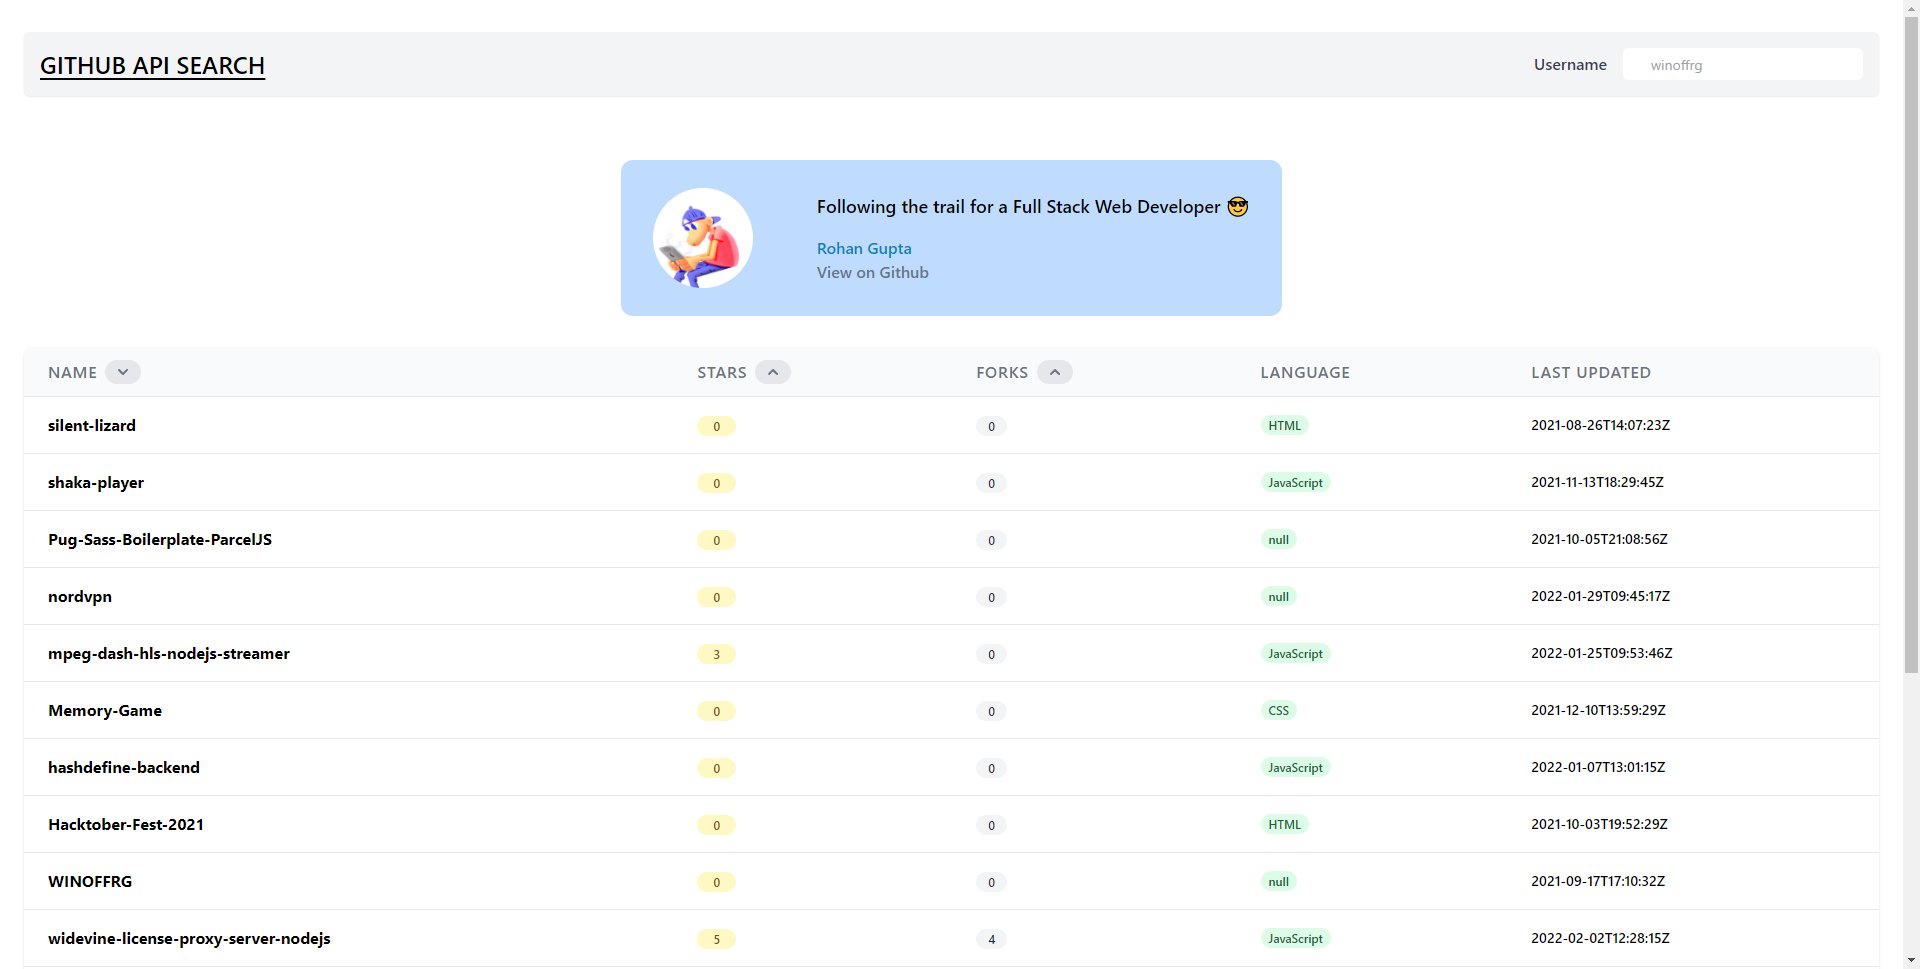
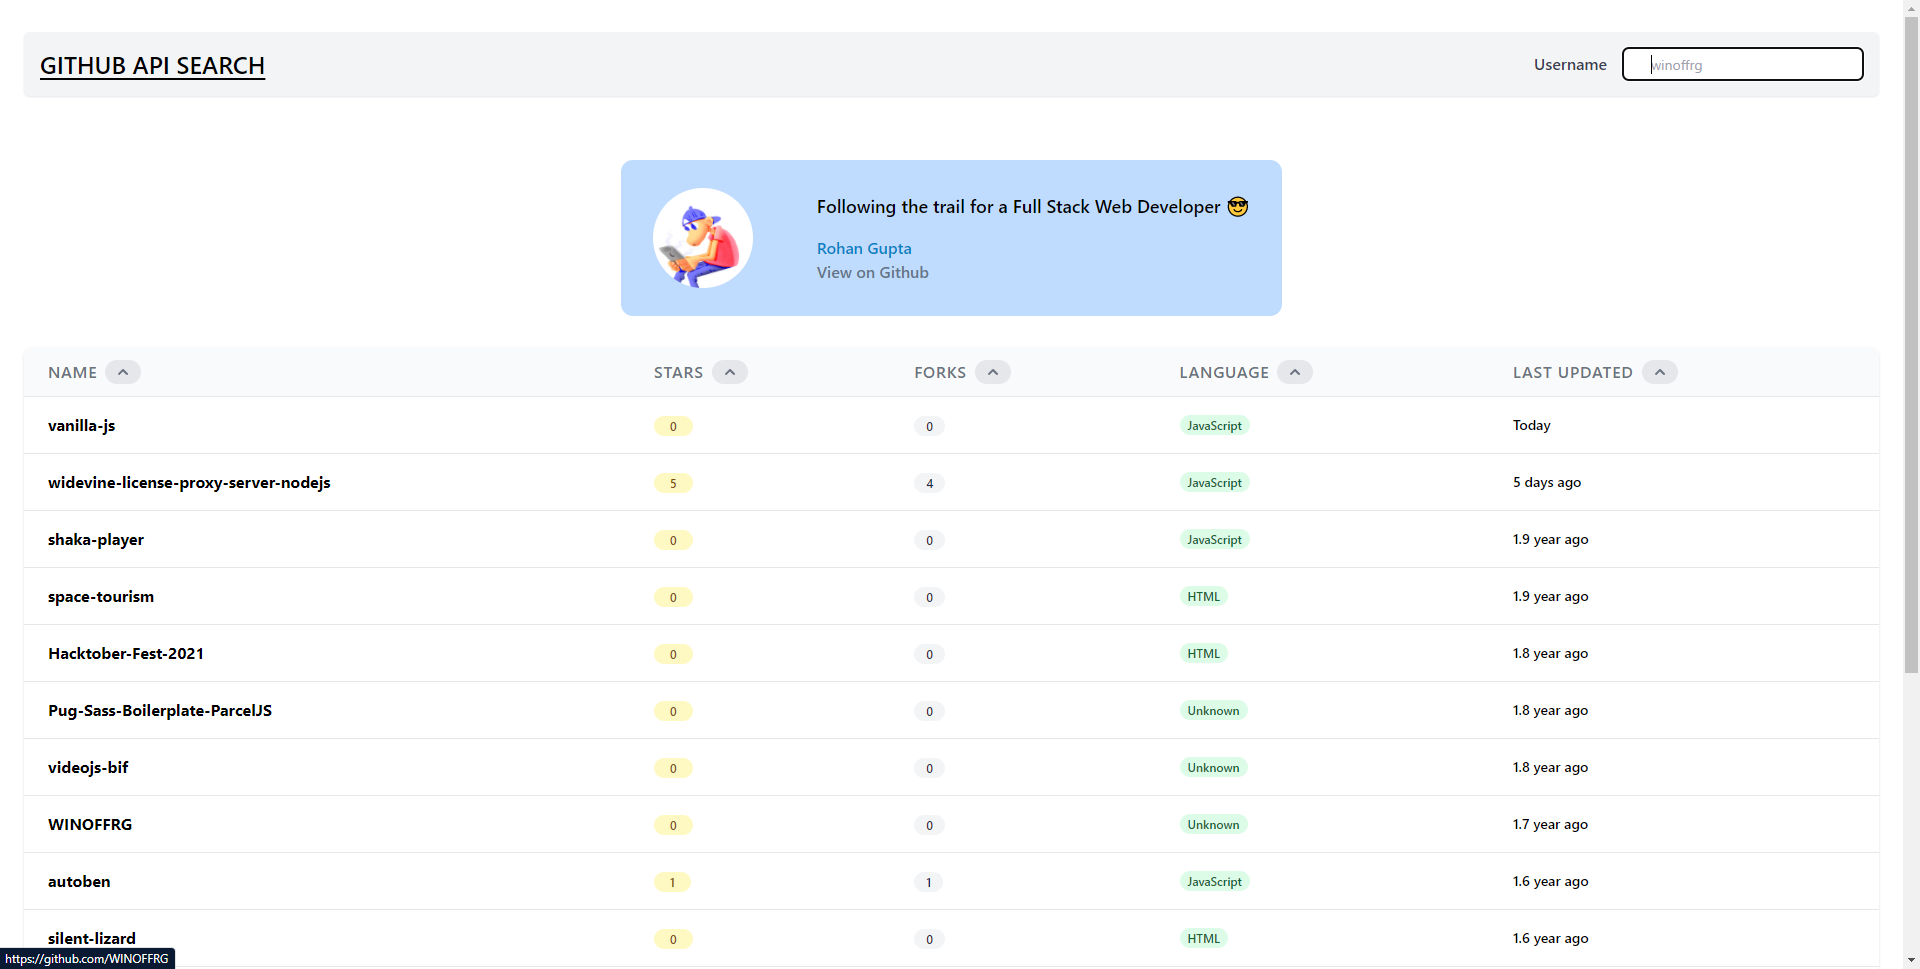
Clean Code, No redudancy

diff --git a/applications/Github Search/scripts/controller.js b/applications/Github Search/scripts/controller.js
@@ -2,96 +2,113 @@ const logic = {
 
     sorting: {
         sortBy(handler, arr, order) {
-
-            if(handler === 'byName') {
-                console.log('Sorting by Name');
-
-                let unsortedMap = new Map();
-
-                for(let idx = 0; idx < arr.length; idx++) {
-                    unsortedMap.set(idx, arr[idx]['name']);
-                }
-
-                let sortedData = null;
-
-                if(order === 'asc') {
-                    return arr;
-                }
-                else {
-                    sortedData = Array.from(unsortedMap.entries()).sort(function (a, b) {
-                        if (a > b) {
-                            return -1;
-                        }
-                        if (b > a) {
-                            return 1;
-                        }
-                        return 0;
-                    });;
-                }
-
-                console.log(sortedData);
-                let newRepoData = [];
-                
-                sortedData.forEach( (repoIdxValue) => {
-                    newRepoData.push(arr[repoIdxValue[0]])
-                });
-                
-                return newRepoData;
+            
+            console.log(`Sorting ${handler} in ${order} order`);
+            
+            const jsonIdxMap = {
+                'byName': 'name',
+                'byStars': 'stargazers_count',
+                'byForks': 'forks_count',
+                'byLanguage': 'language',
+                'byLastUpdated': 'updated_at'
             }
-            else if(handler === 'byStars') {
-                console.log(`Sorting ${handler} in ${order} order`);
 
-                let unsortedMap = new Map();
+            let unsortedMap = new Map();
 
-                for(let idx = 0; idx < arr.length; idx++) {
-                    unsortedMap.set(idx, arr[idx]['stargazers_count']);
-                }
-
-                let sortedData = null;
-
-                if(order === 'asc') {
-                    sortedData = Array.from(unsortedMap.entries()).sort((a, b) => a[1] - b[1]);
-                }
-                else {
-                    sortedData = Array.from(unsortedMap.entries()).sort((a, b) => b[1] - a[1]);
-                }
-
-                let newRepoData = [];
-                
-                sortedData.forEach( (repoIdxValue) => {
-                    newRepoData.push(arr[repoIdxValue[0]])
-                });
-                
-                return newRepoData;
+            for(let idx = 0; idx < arr.length; idx++) {
+                unsortedMap.set(idx, arr[idx][jsonIdxMap[handler]]);
             }
-            else if(handler === 'byForks') {
-                console.log(`Sorting ${handler} in ${order} order`);
 
-                let unsortedMap = new Map();
+            let sortedData = null;
 
-                for(let idx = 0; idx < arr.length; idx++) {
-                    unsortedMap.set(idx, arr[idx]['forks_count']);
+                if(handler === 'byName' || handler === 'byLanguage' || handler === 'byLastUpdated') {
+
+                    if(order === 'asc') {
+                        return arr;
+                    }
+                    else {
+                        sortedData = Array.from(unsortedMap.entries()).sort(function (a, b) {
+                            let stringA = a[1].toLowerCase(), stringB = b[1].toLowerCase();
+                            if (stringA < stringB)
+                                return 1;
+                            if (stringA > stringB)
+                                return -1;
+                            return 0;
+                        });
+                    }
                 }
+                else if(handler === 'byStars' || handler === 'byForks') {
 
-                let sortedData = null;
-
-                if(order === 'asc') {
-                    sortedData = Array.from(unsortedMap.entries()).sort((a, b) => a[1] - b[1]);
+                    if(order === 'asc') {
+                        sortedData = Array.from(unsortedMap.entries()).sort((a, b) => a[1] - b[1]);
+                    }
+                    else {
+                        sortedData = Array.from(unsortedMap.entries()).sort((a, b) => b[1] - a[1]);
+                    }
                 }
-                else {
-                    sortedData = Array.from(unsortedMap.entries()).sort((a, b) => b[1] - a[1]);
-                }
+            
+            let newRepoData = [];
+            
+            sortedData.forEach( (repoIdxValue) => {
+                newRepoData.push(arr[repoIdxValue[0]])
+            });
 
-                let newRepoData = [];
-                
-                sortedData.forEach( (repoIdxValue) => {
-                    newRepoData.push(arr[repoIdxValue[0]])
-                });
-                
-                return newRepoData;
-            }
+            return newRepoData;
         }
-    }
+    },
+
+    parsing: {
+        
+        parseData(data) {
+            
+            const currentDate = new Date();
+
+            data.forEach( (repo) => {
+                if(repo['language'] === null) {
+                    repo['language'] = 'Unknown';
+                }
+            });
+            
+            data.forEach( (repo) => {   
+                let lastUpdated = new Date(repo['updated_at']);
+                // console.log(`${lastUpdated.getDate()} - ${lastUpdated.getMonth()} - ${lastUpdated.getFullYear()}`); 
+
+                let yearGap = Math.abs(currentDate.getFullYear() - lastUpdated.getFullYear());
+                let monthGap = Math.abs(currentDate.getMonth() - lastUpdated.getMonth());
+                let dayGap = Math.abs(currentDate.getDate() - lastUpdated.getDate());
+
+                if(yearGap > 0) {
+                    if(yearGap === 1) {
+                        repo['updated_at'] = `${yearGap}.${monthGap} year ago`;
+                    }
+                    else {
+                        repo['updated_at'] = `${yearGap}.${monthGap} year's ago`;
+                    }
+                }
+                else if(monthGap > 0) {
+                    if(monthGap === 1) {
+                        repo['updated_at'] = `${monthGap}.${dayGap} ago`;
+                    }
+                    else {
+                        repo['updated_at'] = `${monthGap} month's ago`;
+                    }
+                }
+                else if(dayGap > 0) {
+                    if(dayGap === 1) {
+                        repo['updated_at'] = `${dayGap} day ago`;
+                    }
+                    else {
+                        repo['updated_at'] = `${dayGap} days ago`;
+                    }
+                }
+                else {
+                    repo['updated_at'] = 'Today';
+                }
+            });
+            
+            return data;
+        }
+    } 
 }
 
 export default logic;

diff --git a/applications/Github Search/scripts/script.js b/applications/Github Search/scripts/script.js
@@ -21,8 +21,14 @@ const application = {
                 asc: null,
                 desc: null
             },
-            byLanguage: null,
-            byLastUpdated: null,
+            byLanguage: {
+                asc: null,
+                desc: null
+            },
+            byLastUpdated: {
+                asc: null,
+                desc: null
+            },
         },
         filterBy: {
             languages: [],
@@ -49,6 +55,7 @@ const application = {
 
             this.stateData.apiData.userdata = await githubApi.fetchUserData(searchTerm);
             this.stateData.apiData.metaData = await githubApi.fetchMetaData(searchTerm);
+            this.stateData.apiData.metaData = await applicationLogic.parsing.parseData(this.stateData.apiData.metaData);
             
             this.render.isLoading(false);
 
@@ -127,59 +134,37 @@ const application = {
 
     setControls() {
         
-        const buttons = ['sort-btn__name', 'sort-btn__stars', 'sort-btn__forks'];
-        const buttonReference = buttons.map(button => document.querySelector(`.${button}`));
-        
-        buttonReference[0].addEventListener('click', () => {
-            let order = null;
+        const buttons = {
+            'sort-btn__name': 'byName',
+            'sort-btn__stars': 'byStars',
+            'sort-btn__forks': 'byForks',
+            'sort-btn__language': 'byLanguage',
+            'sort-btn__lastUpdated': 'byLastUpdated',
+        }
 
-            if(buttonReference[0].classList.contains('asc')) {
-                order = 'asc';
-                buttonReference[0].classList.remove('asc');
-                buttonReference[0].classList.add('desc');
-            }
-            else {
-                order = 'desc';
-                buttonReference[0].classList.remove('desc');
-                buttonReference[0].classList.add('asc');
-            }
+        Object.entries(buttons).forEach(([key, value]) => {
 
-            this.menuLogic.sortBy('byName', order);
+            const buttonReference = document.querySelector(`.${key}`);
+
+            buttonReference.addEventListener('click', async (event) => {
+
+                let order = null;
+
+                if(buttonReference.classList.contains('asc')) {
+                    order = 'asc';
+                    buttonReference.classList.remove('asc');
+                    buttonReference.classList.add('desc');
+                }
+                else {
+                    order = 'desc';
+                    buttonReference.classList.remove('desc');
+                    buttonReference.classList.add('asc');
+                }
+    
+                this.menuLogic.sortBy(value, order);
+            });
         });
 
-        buttonReference[1].addEventListener('click', () => {
-            let order = null;
-
-            if(buttonReference[1].classList.contains('asc')) {
-                order = 'asc';
-                buttonReference[1].classList.remove('asc');
-                buttonReference[1].classList.add('desc');
-            }
-            else {
-                order = 'desc';
-                buttonReference[1].classList.remove('desc');
-                buttonReference[1].classList.add('asc');
-            }
-
-            this.menuLogic.sortBy('byStars', order);
-        });
-        
-        buttonReference[2].addEventListener('click', () => {
-            let order = null;
-
-            if(buttonReference[2].classList.contains('asc')) {
-                order = 'asc';
-                buttonReference[2].classList.remove('asc');
-                buttonReference[2].classList.add('desc');
-            }
-            else {
-                order = 'desc';
-                buttonReference[2].classList.remove('desc');
-                buttonReference[2].classList.add('asc');
-            }
-
-            this.menuLogic.sortBy('byForks', order);
-        });
     },
 
     menuLogic: {
@@ -201,7 +186,6 @@ const application = {
         },
         
         sortBy(handler, order) {
-            // Check Caching
 
             let renderData = null;
 

diff --git a/applications/Github Search/index.html b/applications/Github Search/index.html
@@ -81,8 +81,32 @@
                                 </button>
                             </div>
                         </th>
-                        <th scope="col" class="px-6 py-3 text-left text-x font-medium text-gray-500 uppercase tracking-wider">Language</th>
-                        <th scope="col" class="px-6 py-3 text-left text-x font-medium text-gray-500 uppercase tracking-wider">Last Updated</th>
+                        <th scope="col" class="px-6 py-3 text-left text-x font-medium text-gray-500 uppercase tracking-wider">
+                            <div class="flex">
+                                <h2>Language</h2>
+                                <button class="asc sort-btn__language bg-gray-200 ml-2 rounded-full px-2">
+                                    <svg class="byLanguage-btn arrow-up" xmlns="http://www.w3.org/2000/svg" class="h-5 w-5" viewBox="0 0 20 20" fill="currentColor">
+                                        <path fill-rule="evenodd" d="M14.707 12.707a1 1 0 01-1.414 0L10 9.414l-3.293 3.293a1 1 0 01-1.414-1.414l4-4a1 1 0 011.414 0l4 4a1 1 0 010 1.414z" clip-rule="evenodd" />
+                                    </svg>
+                                    <svg class="byLanguage-btn arrow-down hidden" xmlns="http://www.w3.org/2000/svg" className="h-5 w-5" viewBox="0 0 20 20" fill="currentColor">
+                                        <path fillRule="evenodd" d="M5.293 7.293a1 1 0 011.414 0L10 10.586l3.293-3.293a1 1 0 111.414 1.414l-4 4a1 1 0 01-1.414 0l-4-4a1 1 0 010-1.414z" clipRule="evenodd" />
+                                    </svg>
+                                </button>
+                            </div>
+                        </th>
+                        <th scope="col" class="px-6 py-3 text-left text-x font-medium text-gray-500 uppercase tracking-wider">
+                            <div class="flex">
+                                <h2>Last Updated</h2>
+                                <button class="asc sort-btn__lastUpdated bg-gray-200 ml-2 rounded-full px-2">
+                                    <svg class="byLastUpdated-btn arrow-up" xmlns="http://www.w3.org/2000/svg" class="h-5 w-5" viewBox="0 0 20 20" fill="currentColor">
+                                        <path fill-rule="evenodd" d="M14.707 12.707a1 1 0 01-1.414 0L10 9.414l-3.293 3.293a1 1 0 01-1.414-1.414l4-4a1 1 0 011.414 0l4 4a1 1 0 010 1.414z" clip-rule="evenodd" />
+                                    </svg>
+                                    <svg class="byLastUpdated-btn arrow-down hidden" xmlns="http://www.w3.org/2000/svg" className="h-5 w-5" viewBox="0 0 20 20" fill="currentColor">
+                                        <path fillRule="evenodd" d="M5.293 7.293a1 1 0 011.414 0L10 10.586l3.293-3.293a1 1 0 111.414 1.414l-4 4a1 1 0 01-1.414 0l-4-4a1 1 0 010-1.414z" clipRule="evenodd" />
+                                    </svg>
+                                </button>
+                            </div>
+                        </th>
                     </tr>
                 </thead>
                 <tbody class="table-rows bg-white divide-y divide-gray-200">
